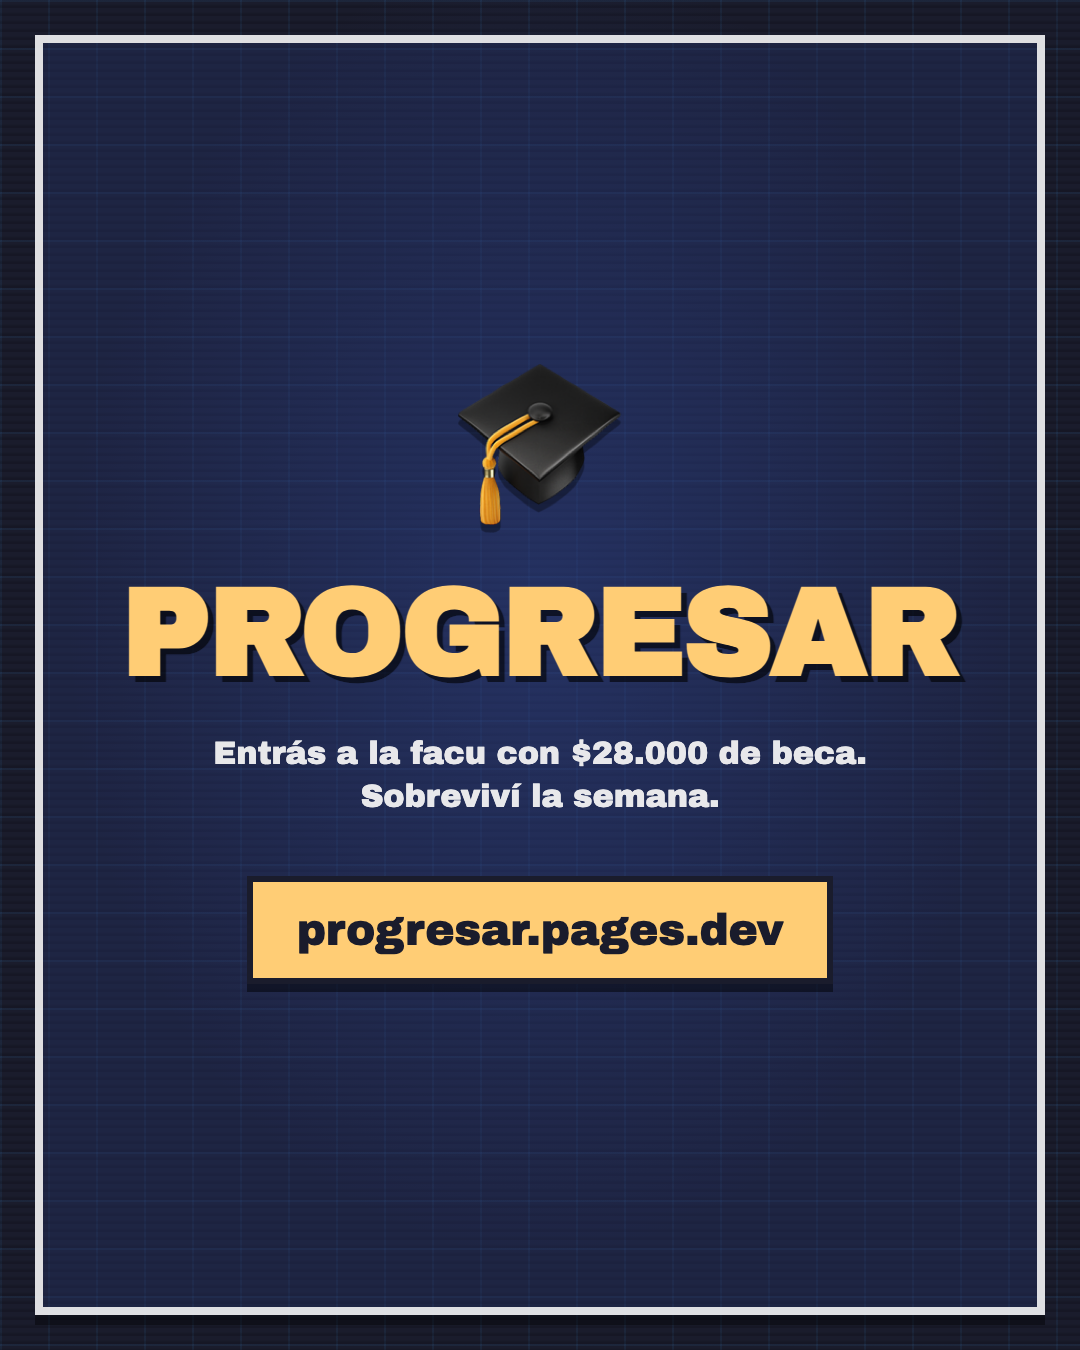
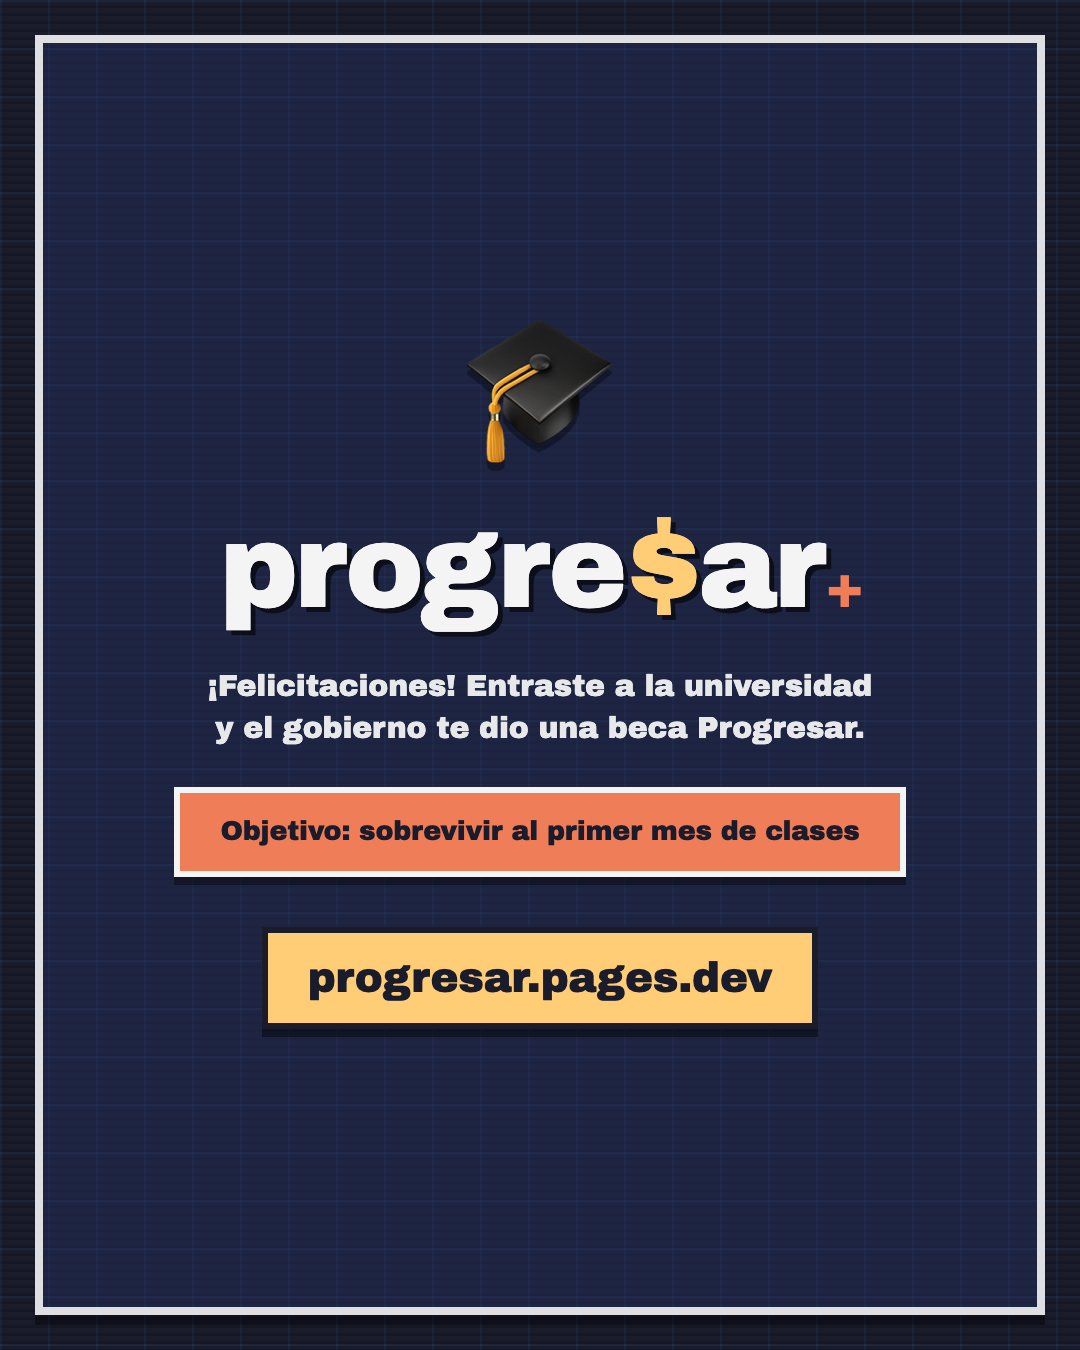
Flyer con el wordmark progre$ar+ en blanco y el copy de la landing

Changed region(s): [[0.0917, 0.2178, 0.8861, 0.7778]]

diff --git a/flyer/flyer-feed.html b/flyer/flyer-feed.html
@@ -10,23 +10,31 @@ body{background:#1a1c2c;color:#f4f4f4;
   linear-gradient(rgba(65,166,246,.07) 2px,transparent 2px),
   linear-gradient(90deg,rgba(65,166,246,.07) 2px,transparent 2px);
   background-size:100% 8px,48px 48px,48px 48px}
-.vinieta{position:absolute;inset:0;background:radial-gradient(ellipse at 50% 45%,rgba(59,93,201,.30),transparent 62%)}
 .marco{position:relative;width:1010px;height:1280px;border:8px solid rgba(244,244,244,.9);
   box-shadow:0 10px 0 0 rgba(0,0,0,.4);background:rgba(41,54,111,.35);
   display:flex;flex-direction:column;align-items:center;justify-content:center;
-  text-align:center;gap:40px;padding:52px}
-.emoji{font-size:168px;line-height:1;filter:drop-shadow(0 8px 0 rgba(0,0,0,.35))}
-h1{font-size:124px;line-height:.95;letter-spacing:-.02em;color:#ffcd75;
-  text-shadow:6px 6px 0 rgba(0,0,0,.6)}
-.bajada{font-size:32px;line-height:1.35;color:rgba(244,244,244,.94);white-space:nowrap}
+  text-align:center;gap:38px;padding:52px}
+.emoji{font-size:150px;line-height:1;filter:drop-shadow(0 8px 0 rgba(0,0,0,.35))}
+/* Wordmark progre$ar+ : el celeste del juego va en blanco acá */
+.logo{font-size:118px;line-height:1;letter-spacing:-.03em;
+  display:inline-flex;align-items:baseline;white-space:nowrap}
+.logo .s{text-shadow:5px 5px 0 rgba(0,0,0,.6)}
+.logo .blanco{color:#f4f4f4}
+.logo .oro{color:#ffcd75}
+.logo .mas{color:#ef7d57;font-size:.5em;vertical-align:super;margin-left:.04em}
+.bajada{font-size:30px;line-height:1.4;color:rgba(244,244,244,.94);max-width:880px}
+.chapa{border:6px solid #f4f4f4;background:#ef7d57;box-shadow:0 8px 0 0 rgba(0,0,0,.4);
+  padding:22px 40px}
+.chapa p{font-size:27px;color:#1a1c2c;line-height:1.25}
 .link{border:6px solid #1a1c2c;background:#ffcd75;box-shadow:0 8px 0 0 rgba(0,0,0,.45);
-  padding:24px 44px;font-size:44px;color:#1a1c2c;white-space:nowrap;margin-top:18px}
+  padding:22px 40px;font-size:42px;color:#1a1c2c;white-space:nowrap;margin-top:12px}
 </style></head><body>
-<div class="grilla"></div><div class="vinieta"></div>
+<div class="grilla"></div>
 <div class="marco">
   <div class="emoji">&#127891;</div>
-  <h1>PROGRESAR</h1>
-  <p class="bajada">Entrás a la facu con $28.000 de beca.<br>Sobreviví la semana.</p>
+  <div class="logo"><span class="s blanco">progre</span><span class="s oro">$</span><span class="s blanco">ar</span><span class="mas">+</span></div>
+  <p class="bajada">&iexcl;Felicitaciones! Entraste a la universidad<br>y el gobierno te dio una beca Progresar.</p>
+  <div class="chapa"><p>Objetivo: sobrevivir al primer mes de clases</p></div>
   <div class="link">progresar.pages.dev</div>
 </div>
 </body></html>

diff --git a/flyer/flyer-story.html b/flyer/flyer-story.html
@@ -10,23 +10,31 @@ body{background:#1a1c2c;color:#f4f4f4;
   linear-gradient(rgba(65,166,246,.07) 2px,transparent 2px),
   linear-gradient(90deg,rgba(65,166,246,.07) 2px,transparent 2px);
   background-size:100% 8px,48px 48px,48px 48px}
-.vinieta{position:absolute;inset:0;background:radial-gradient(ellipse at 50% 45%,rgba(59,93,201,.30),transparent 62%)}
 .marco{position:relative;width:1010px;height:1660px;border:8px solid rgba(244,244,244,.9);
   box-shadow:0 10px 0 0 rgba(0,0,0,.4);background:rgba(41,54,111,.35);
   display:flex;flex-direction:column;align-items:center;justify-content:center;
-  text-align:center;gap:52px;padding:64px}
-.emoji{font-size:200px;line-height:1;filter:drop-shadow(0 8px 0 rgba(0,0,0,.35))}
-h1{font-size:132px;line-height:.95;letter-spacing:-.02em;color:#ffcd75;
-  text-shadow:6px 6px 0 rgba(0,0,0,.6)}
-.bajada{font-size:34px;line-height:1.35;color:rgba(244,244,244,.94);white-space:nowrap}
+  text-align:center;gap:48px;padding:64px}
+.emoji{font-size:180px;line-height:1;filter:drop-shadow(0 8px 0 rgba(0,0,0,.35))}
+/* Wordmark progre$ar+ : el celeste del juego va en blanco acá */
+.logo{font-size:126px;line-height:1;letter-spacing:-.03em;
+  display:inline-flex;align-items:baseline;white-space:nowrap}
+.logo .s{text-shadow:5px 5px 0 rgba(0,0,0,.6)}
+.logo .blanco{color:#f4f4f4}
+.logo .oro{color:#ffcd75}
+.logo .mas{color:#ef7d57;font-size:.5em;vertical-align:super;margin-left:.04em}
+.bajada{font-size:32px;line-height:1.4;color:rgba(244,244,244,.94);max-width:880px}
+.chapa{border:6px solid #f4f4f4;background:#ef7d57;box-shadow:0 8px 0 0 rgba(0,0,0,.4);
+  padding:24px 44px}
+.chapa p{font-size:29px;color:#1a1c2c;line-height:1.25}
 .link{border:6px solid #1a1c2c;background:#ffcd75;box-shadow:0 8px 0 0 rgba(0,0,0,.45);
-  padding:26px 48px;font-size:46px;color:#1a1c2c;white-space:nowrap;margin-top:24px}
+  padding:24px 44px;font-size:44px;color:#1a1c2c;white-space:nowrap;margin-top:18px}
 </style></head><body>
-<div class="grilla"></div><div class="vinieta"></div>
+<div class="grilla"></div>
 <div class="marco">
   <div class="emoji">&#127891;</div>
-  <h1>PROGRESAR</h1>
-  <p class="bajada">Entrás a la facu con $28.000 de beca.<br>Sobreviví la semana.</p>
+  <div class="logo"><span class="s blanco">progre</span><span class="s oro">$</span><span class="s blanco">ar</span><span class="mas">+</span></div>
+  <p class="bajada">&iexcl;Felicitaciones! Entraste a la universidad<br>y el gobierno te dio una beca Progresar.</p>
+  <div class="chapa"><p>Objetivo: sobrevivir al primer mes de clases</p></div>
   <div class="link">progresar.pages.dev</div>
 </div>
 </body></html>
